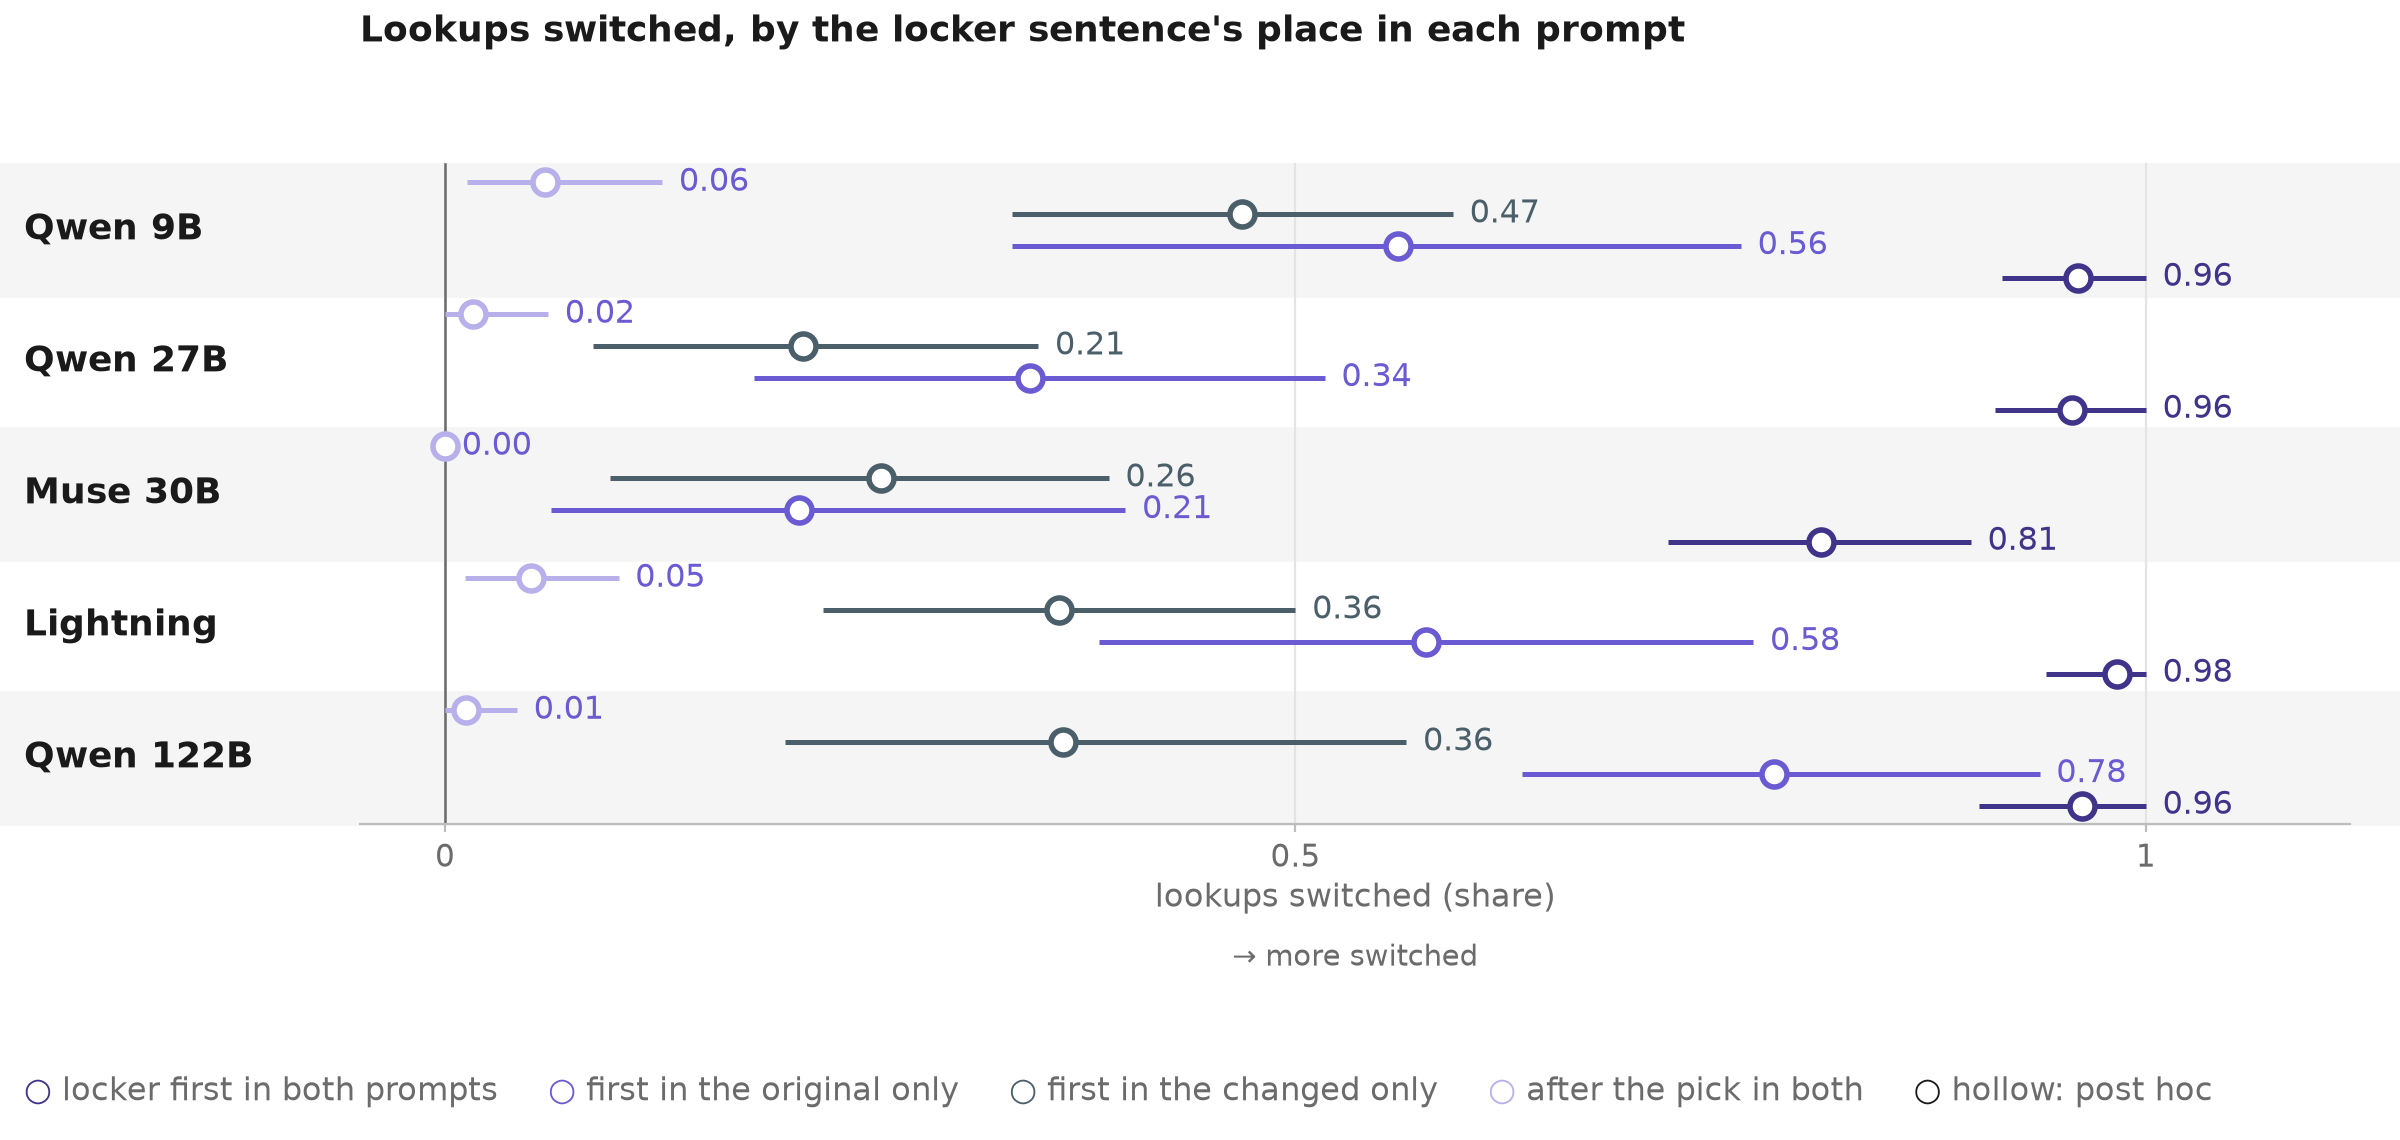
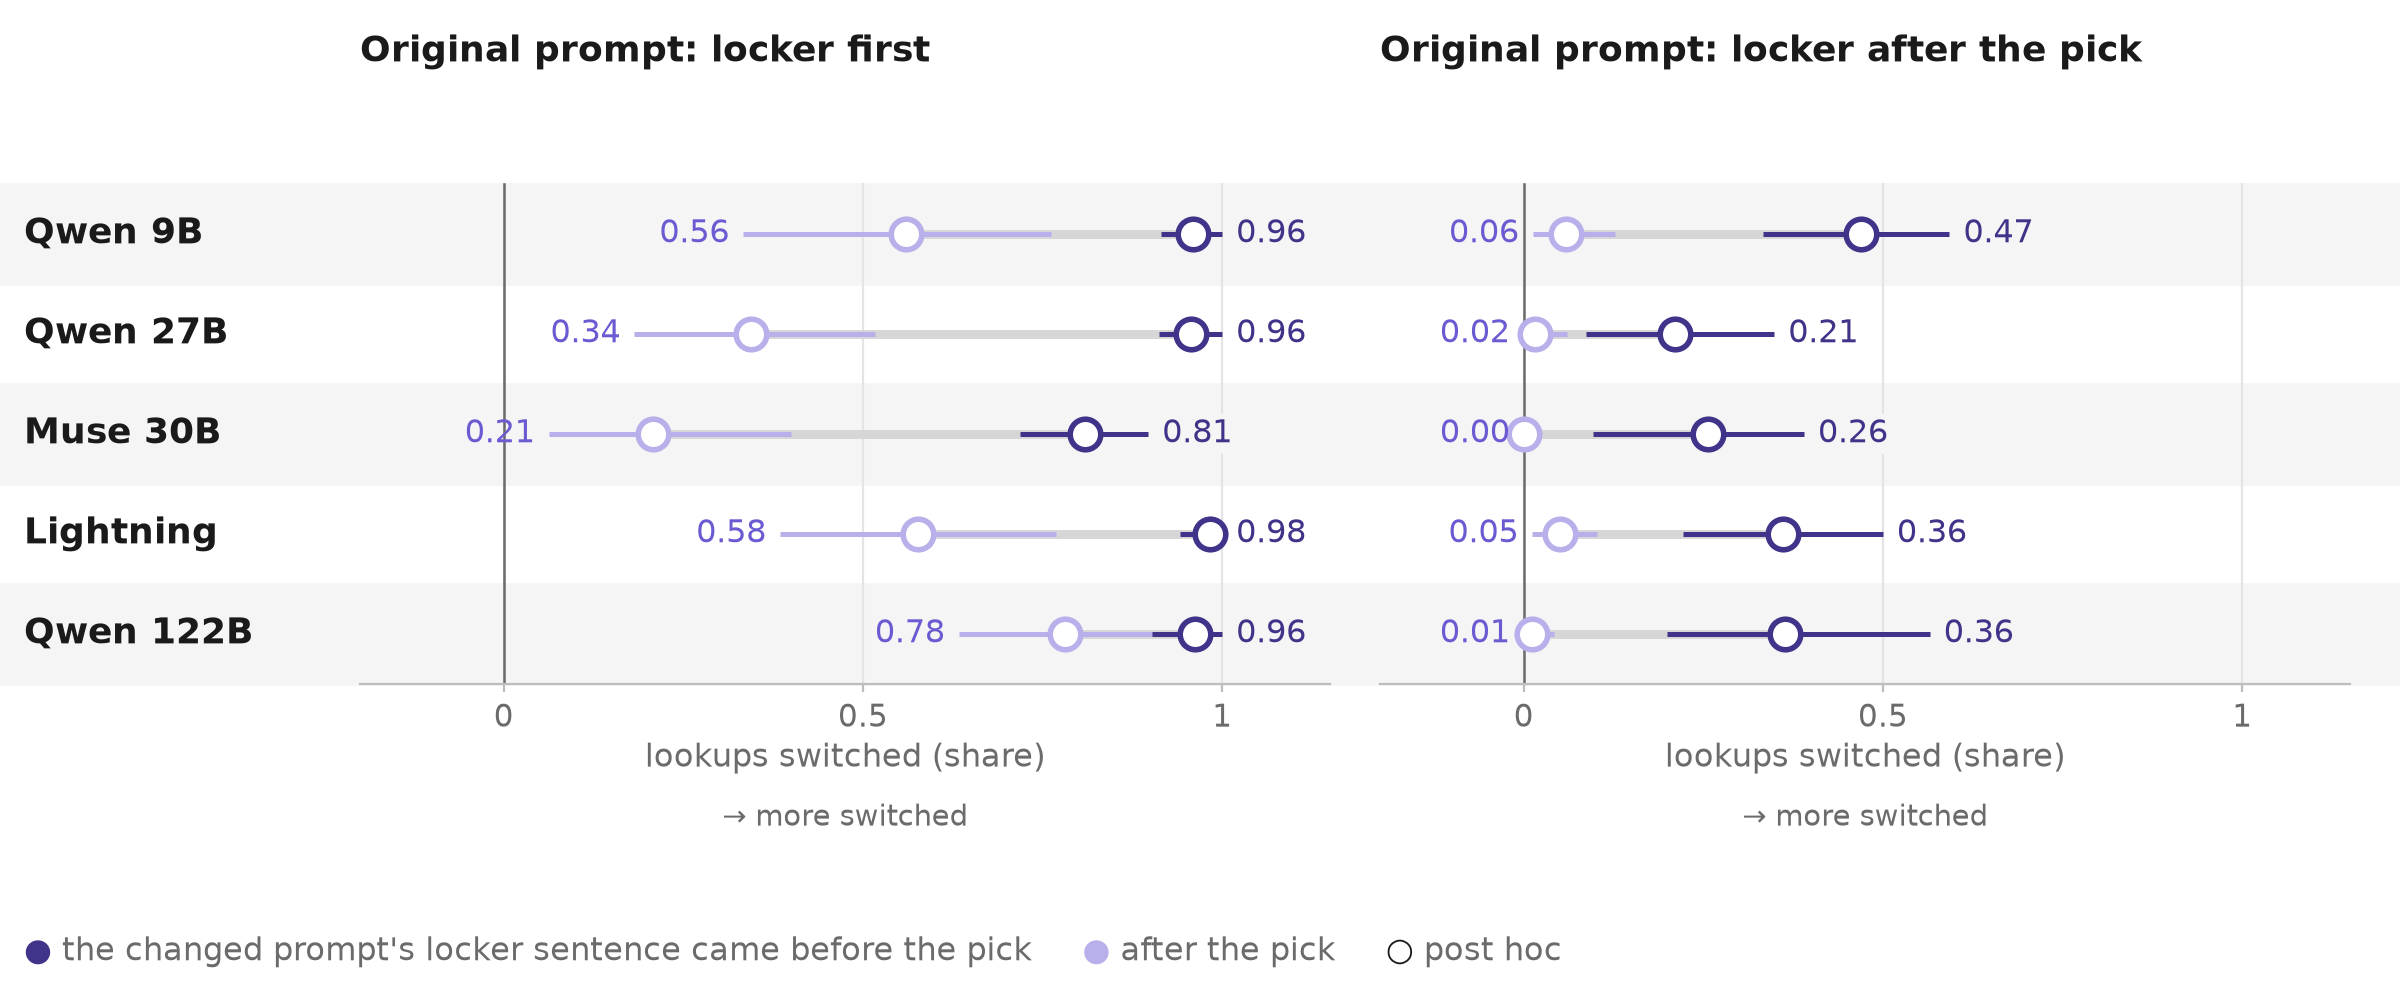
deck: f10b_order_2x2 redrawn as two panels in f10a's encoding (original prompt's locker sentence first / after the pick; the changed prompt's before = dark, after = light), post hoc (Dan 31 Oct)

diff --git a/src/bridge_jspace/figkit/claim_figs.py b/src/bridge_jspace/figkit/claim_figs.py
@@ -199,36 +199,32 @@ def f_order_main() -> None:
 
 
 def f_order_2x2() -> None:
-    """Deck, appendix (post hoc): per model the lookups switched for the four cells of the 2 x 2 (the original and the changed prompt's locker sentence, before or
-    after the pick), four markers in four lanes on one axis."""
+    """Deck, appendix (post hoc): the 2 x 2 in the encoding of f10a. Left the scenes whose original prompt has the locker sentence before the pick, right those
+    with it after; in each, the lookups switched when the changed prompt's locker sentence comes after the pick (light) against before it (dark)."""
     models = [(m, n) for m, n in DAN if D.s(m, BOTH_Q.format("before", "before"), "fig03")]
     rows = [Row(NAME[m]) for m, _ in models]
-    cells = (  # (original, changed, colour, lane offset)
-        ("after", "after", C["lookup_light"], -0.36),
-        ("after", "before", C["neutral"], -0.12),
-        ("before", "after", C["lookup"], 0.12),
-        ("before", "before", C["lookup_dark"], 0.36),
-    )
 
-    def panel(ax, _rows):
-        for i, (m, _) in enumerate(models):
-            for o, a, col, dy in cells:
-                c = D.s(m, BOTH_Q.format(o, a), "fig03")
-                if c:
-                    dot(ax, c[0], i + dy, col, True, size=9, cell=c, box=False)
-                    ax.annotate(f"{c[0]:.2f}", (c[2], i + dy), xytext=(6, 0), textcoords="offset points", ha="left", va="center", fontsize=11.5,
-                                color=C["lookup"] if col == C["lookup_light"] else col, zorder=6)
+    def lanes(orig: str):
+        def f(ax, _rows):
+            for i, (m, _) in enumerate(models):
+                b, a = D.s(m, BOTH_Q.format(orig, "before"), "fig03"), D.s(m, BOTH_Q.format(orig, "after"), "fig03")
+                connector(ax, a[0], b[0], i)
+                dot(ax, a[0], i, C["lookup_light"], True, size=11, cell=a, vside="left")
+                ax.annotate(f"{a[0]:.2f}", (a[1], i), xytext=(-5, 0), textcoords="offset points", ha="right", va="center", fontsize=11.5, color=C["lookup"], zorder=6)
+                dot(ax, b[0], i, C["lookup_dark"], True, size=11, cell=b, value=b[0])
 
-    with _slide(0.66):
+        return f
+
+    with _slide(0.5):
         t = Table(
             rows,
-            [Col(9.95, "Lookups switched, by the locker sentence's place in each prompt", "", panel, (-0.05, 1.12), [0, 0.5, 1],
-                 xlabel="lookups switched (share)", cue="→ more switched")],
+            [
+                Col(4.85, "Original prompt: locker first", "", lanes("before"), (-0.2, 1.15), [0, 0.5, 1], xlabel="lookups switched (share)", cue="→ more switched"),
+                Col(4.85, "Original prompt: locker after the pick", "", lanes("after"), (-0.2, 1.15), [0, 0.5, 1], xlabel="lookups switched (share)", cue="→ more switched"),
+            ],
             label_w=1.55,
             labels=False,
-            head=0.7,
-            key=[[("○", C["lookup_dark"], "locker first in both prompts"), ("○", C["lookup"], "first in the original only"),
-                  ("○", C["neutral"], "first in the changed only"), ("○", C["lookup_light"], "after the pick in both"),
-                  ("○", INK, "hollow: post hoc")]],
+            head=0.8,
+            key=[("●", C["lookup_dark"], "the changed prompt's locker sentence came before the pick"), ("●", C["lookup_light"], "after the pick")],
         )
         _render(t, "f10b_order_2x2")
